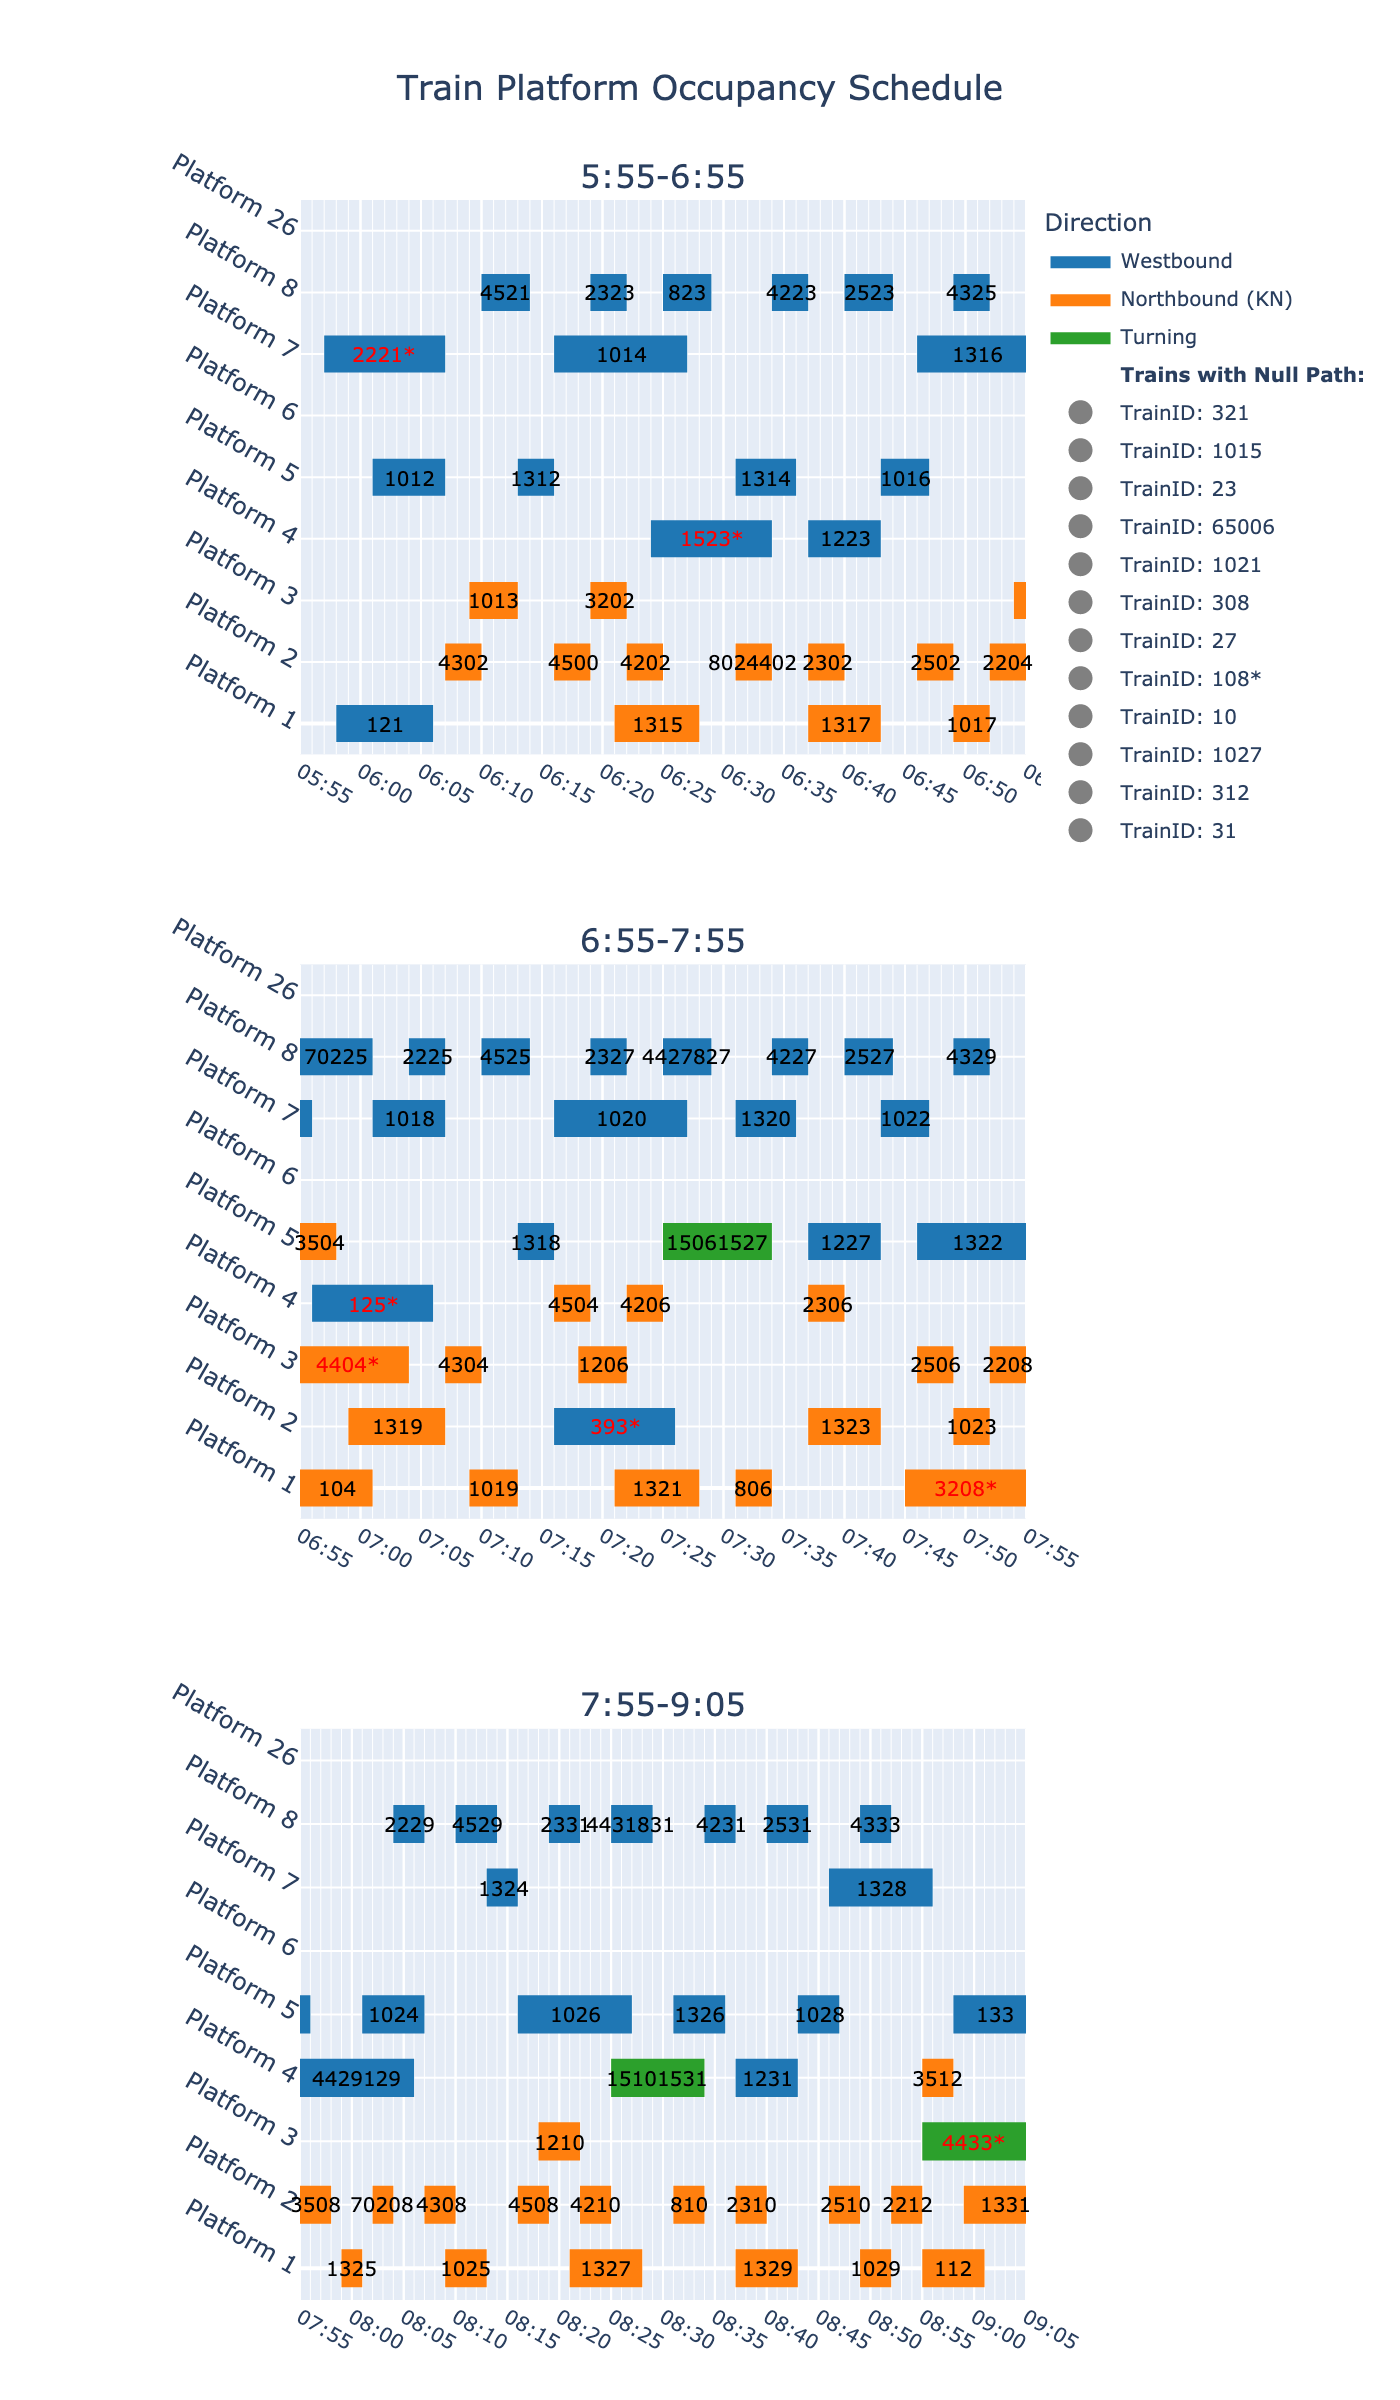
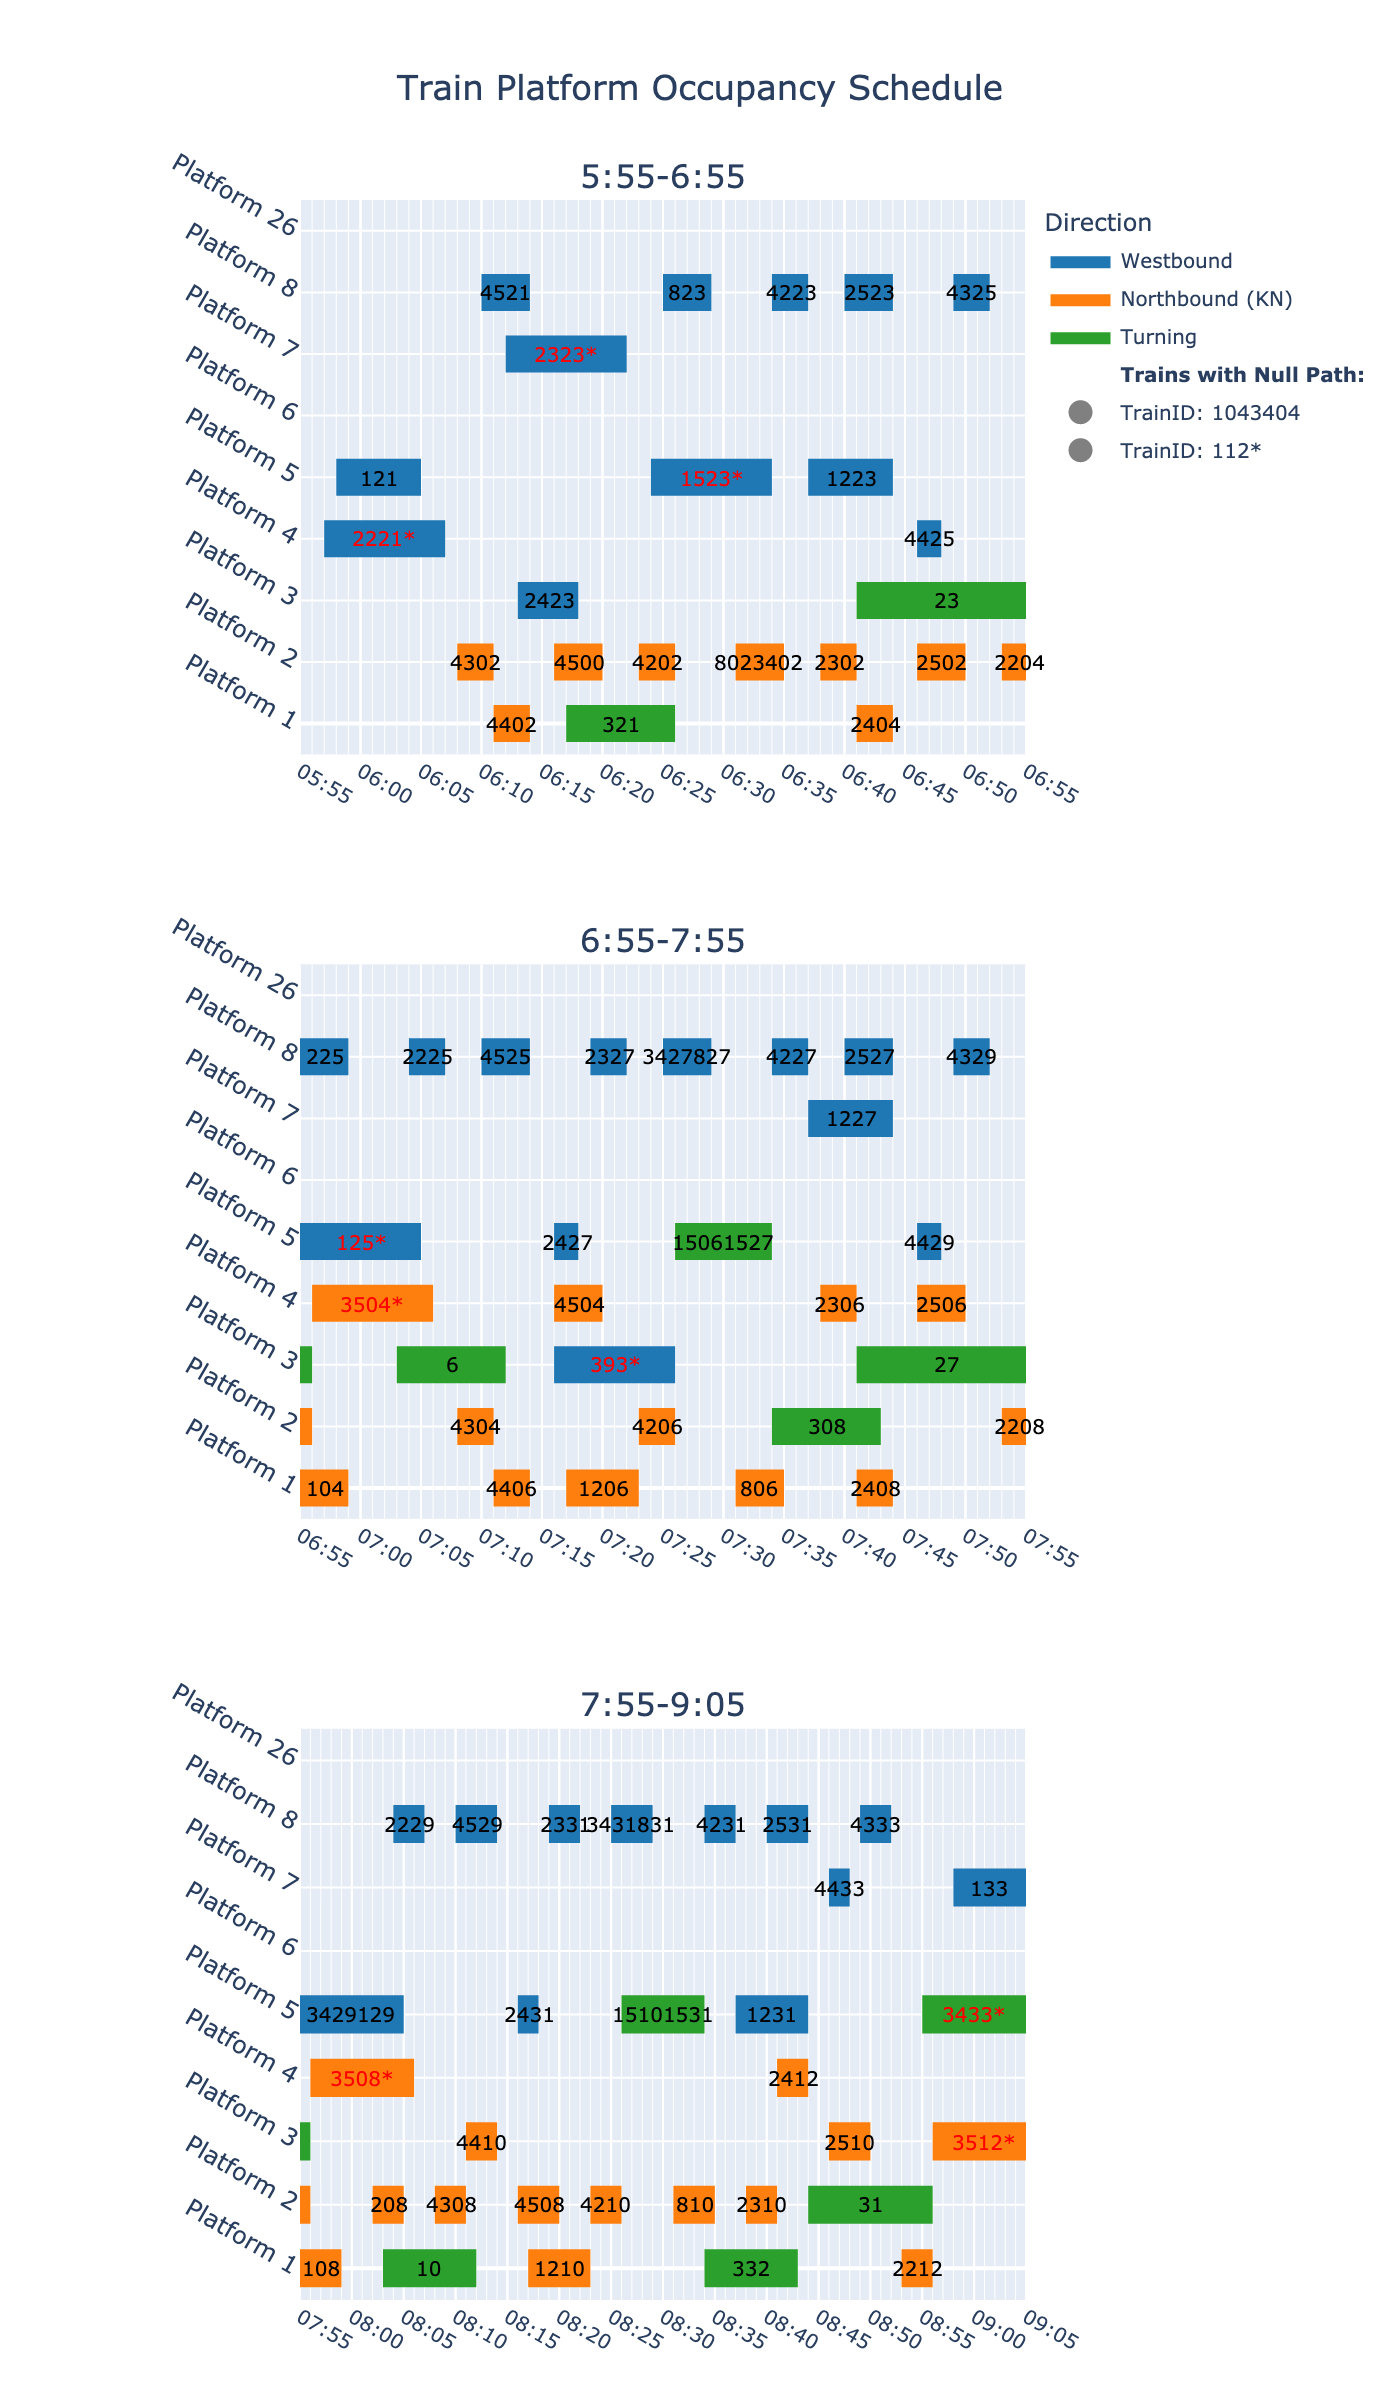
New visuals for model 3 dataset 2023

diff --git a/visuals.py b/visuals.py
@@ -183,4 +183,4 @@ fig.update_layout(
     hovermode='closest'
 )
 
-fig.write_image("data_2022_model_2_ny.png", scale=2)
+fig.write_image("data_2023_0.3_block.png", scale=2)
